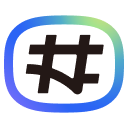
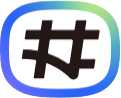
更新社交媒体img素材

diff --git a/dlce/about.md b/dlce/about.md
@@ -16,6 +16,6 @@
 | **下载渠道**      | [DLRS同人群官网](https://chinadlrs.com/app/?id=25)                  |
 
 ## 社交媒体
-[<img src="/lib/img/bili.webp" height="50" alt="哔哩哔哩">](https://space.bilibili.com/187016314 "哔哩哔哩")
-[<img src="/lib/img/qq.png" height="50" alt="QQ群">](/dlce-group/about.md "QQ群")&nbsp;&nbsp;
-[<img src="/lib/img/qq-channel.png" height="50" alt="腾讯频道">](https://pd.qq.com/s/2njtk4vj2 "腾讯频道")
+[<img src="/lib/img/bili.png" height="32" alt="哔哩哔哩">](https://space.bilibili.com/187016314 "哔哩哔哩")&nbsp;&nbsp;&nbsp;&nbsp;
+[<img src="/lib/img/qq.png" height="32" alt="QQ群">](/dlce-group/about.md "QQ群")&nbsp;&nbsp;&nbsp;&nbsp;
+[<img src="/lib/img/qq-channel.png" height="32" alt="腾讯频道">](https://pd.qq.com/s/2njtk4vj2 "腾讯频道")
